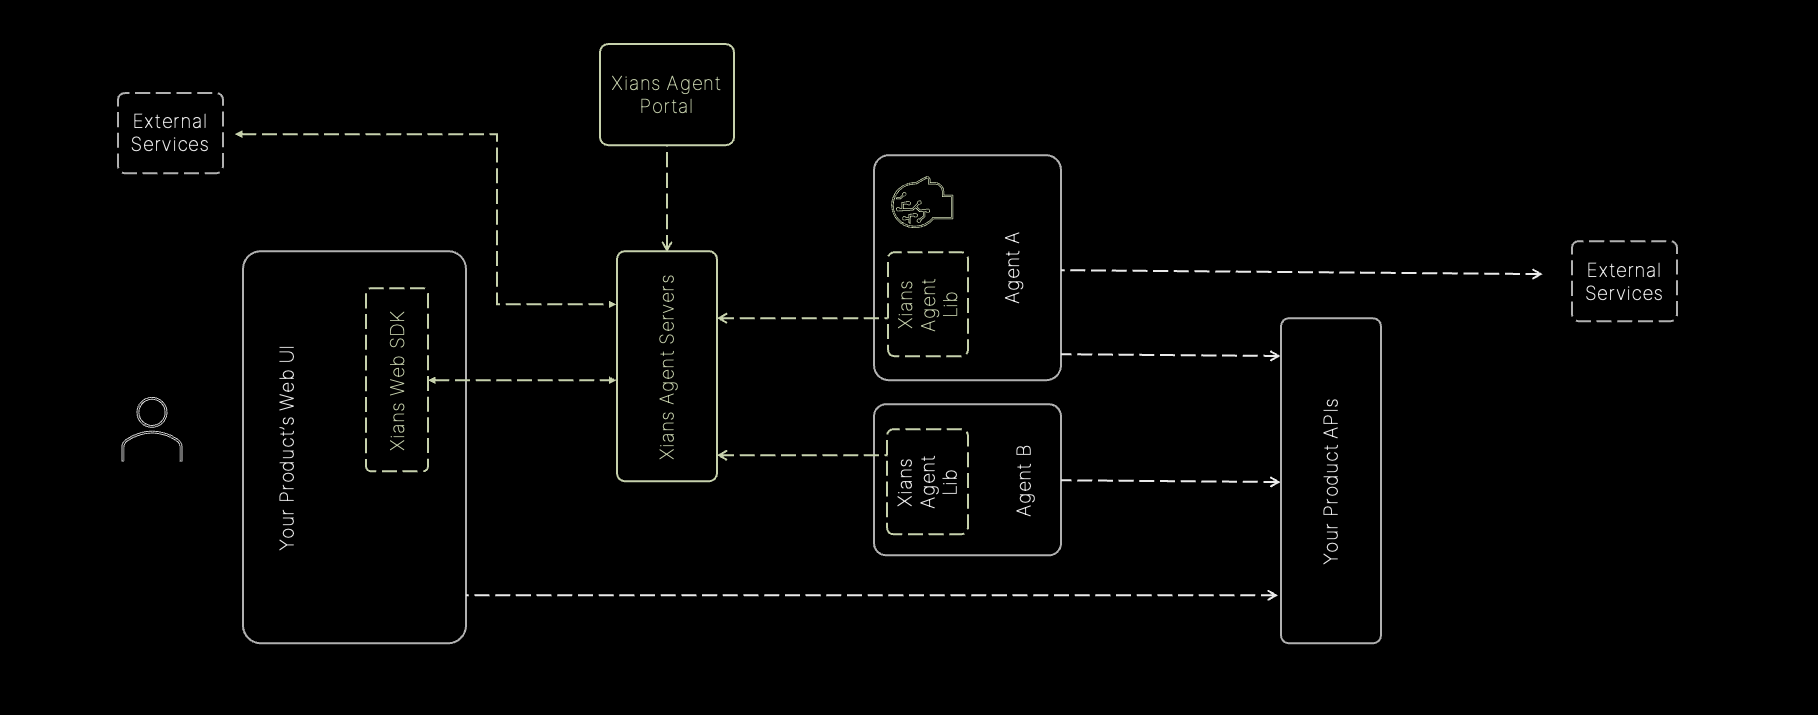
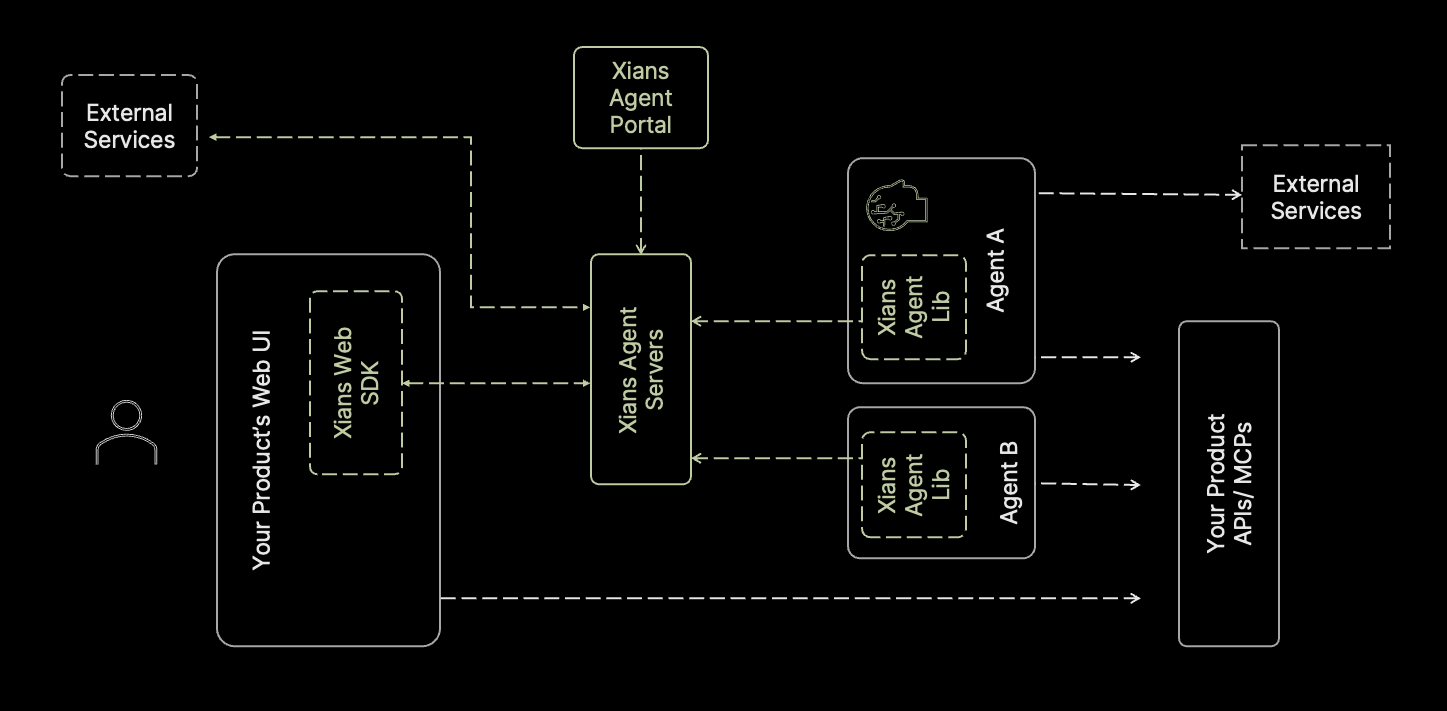
Refactor getting started documentation and update mkdocs.yml
This commit updates the navigation structure in mkdocs.yml to replace the "Setting Up" section with "Platform Setup" and "Agent Project Setup," reflecting the new organization of the getting started guides. The index.md file is modified to align with these changes, enhancing clarity for new users. Additionally, the outdated "setting-up" guide has been removed to streamline the documentation.

diff --git a/docs/0-architecture/3-xians-core-features.md b/docs/0-architecture/3-xians-core-features.md
@@ -1,8 +1,6 @@
-# What is an Agent Development Kit (ADK)?
+# Xians Platform Features
 
-An Agent Development Kit (ADK) is a powerful, flexible framework for creating, deploying, and orchestrating AI agents. Our platform-agnostic approach lets you build sophisticated agent systems while remaining model-independent and infrastructure-flexible. Xians ADK bridges the gap between traditional software development and AI agent creation, enabling developers to construct everything from simple task-oriented agents to complex multi-agent systems with enterprise-grade reliability.
-
-Xians ADK is a platform-agnostic framework for building AI agents. It provides a set of tools and libraries for building agents, as well as a management platform for deploying and monitoring agents.
+Xians Platform is an open-source & LLM-agnostic framework for building AI agents. It provides a set of tools and libraries for building agents, as well as a management platform for deploying and monitoring agents.
 
 ## Core Features
 
@@ -10,54 +8,32 @@ Xians ADK is a platform-agnostic framework for building AI agents. It provides a
 
 Xians ADK leverages temporal.io workflow engine to execute agent activities, making your applications fault-tolerant, scalable, and capable of managing long-running processes that can operate for months or years. Combine generative orchestration with deterministic workflows to create applications that are both adaptive and produce consistent, reliable results.
 
-### **Intuitive Agent Architecture**
+### **Sophisticated Agent Architecture**
 
-Design agents using familiar software development patterns. Our structured approach makes agent creation more predictable and maintainable while supporting both assistive and autonomous execution modes to suit your business requirements.
+Design agents using familiar software development patterns. Support true multi-agent systems with peer-to-peer agent handoffs as well as hierarchical agent team collaboration where agents are aware of each other's capabilities. This structured approach makes agent creation more predictable and maintainable while supporting both assistive and autonomous execution modes to suit your business requirements.
 
-### **Composable Multi-Agent Systems**
-
-Build sophisticated systems by combining specialized agents in collaborative structures (not just hierarchical). Coordinate complex tasks through explicit workflows or emergent agent cooperation. Xians enables peer-to-peer agent handoffs and team-based collaboration where agents are aware of each other's capabilities.
+Coordinate complex tasks through explicit workflows or emergent agent cooperation. Xians enables peer-to-peer agent handoffs and team-based collaboration where agents are aware of each other's capabilities.
 
 ### **Event-Driven Agent Communication**
 
-Agents communicate seamlessly among themselves and within internal subprocesses through sophisticated event mechanisms, enabling complex coordination without tight coupling.
+User-2-Agent and Agent-2-Agent communication is seamless through sophisticated communication mechanisms (WebSockets, REST, SSE), enabling complex coordination without tight coupling.
 
-### **Comprehensive Tooling Framework**
+### **Agent Resource Management**
 
-Extend agent capabilities with our extensive tool ecosystem. Integrate with pre-built utilities, create custom tools, leverage third-party libraries, or use other agents as tools to create powerful composable solutions.
+Xians ADK includes a full-featured Agent Management Portal and built-in Agent run UI, providing total visibility into agent definitions, processes, activities, logs, and a knowledge management portal for agent use. This comprehensive platform approach eliminates the need to build custom interfaces for agent management. Monitor and debug your agents with comprehensive tracing, logging, and evaluation capabilities.
 
-### **Complete Management Platform**
-
-Xians ADK includes a full-featured Agent Management Portal and built-in Agent run UI, providing total visibility into agent definitions, processes, activities, logs, and a knowledge management portal for agent use. This comprehensive platform approach eliminates the need to build custom interfaces for agent management.
-
-### **Multi-Tenant Architecture**
+### **Multi-Tenant Support**
 
 Built from the ground up for multi-tenancy, Xians ADK is the most suitable platform for sophisticated product development and enterprise deployments where isolation and customization per tenant are critical requirements.
 
-### **Simplified Deployment**
+### **Flexible Deployment**
 
 Deploy your agents anywhere with our flexible deployment options. Run locally during development, scale in cloud environments, or integrate into existing infrastructure with container support and standardized interfaces. Xians ADK ensures no vendor lock-in, whether to a specific LLM model, provider, or cloud platform.
-
-### **Built-in Observability**
-
-Monitor and debug your agents with comprehensive tracing, logging, and evaluation capabilities.
 
 ### **Enterprise-Ready Security**
 
 Build agents that meet organizational requirements with our security-first design. Implement fine-grained permissions, input validation, and output filtering to create trustworthy AI systems.
 
-## Code Samples
-
-- [All Samples](https://github.com/XiansAiPlatform/XiansAi.PublicDocs/tree/main/samples)
-
-## GitHub
-
-- Visit our [GitHub repository](https://github.com/XiansAiPlatform)
-
-## Latest Updates
-
-Stay tuned for the latest updates and features. Follow our [changelog](https://github.com/XiansAiPlatform/XiansAi.Lib/releases) for detailed release information.
-
 ## Next Steps
 
-- [Setting up](../1-getting-started/1-setting-up.md)
+- [Setting up](../1-getting-started/0-platform-setup.md)

diff --git a/docs/0-architecture/1-why-xians-platform.md b/docs/0-architecture/1-why-xians-platform.md
@@ -16,6 +16,14 @@ There are 3 areas of main differences:
 | Users responsible for each step of the process | AI involves users strategically rather than for every step |
 | | Goal-oriented automation with human oversight |
 
+### Autonomous Process Execution in Xians
+
+The platform provides several technical capabilities that enable AI agents to drive processes autonomously:
+
+- **Enterprise-Grade Workflow Engine**: Built on [temporal.io](https://temporal.io), providing fault-tolerant, long-running process execution that can operate for months or years
+- **Multi-Agent Systems**: Peer-to-peer agent collaboration where agents coordinate complex tasks through explicit workflows or emergent cooperation. Agents communicate through sophisticated event mechanisms enabling complex coordination without tight coupling
+- **Flow Types**: Support for both deterministic business processes and non-deterministic conversational flows, enabling different levels of autonomy based on requirements
+
 ## 2. System Evolution
 
 ![System Evolution](../images/system-evolution.png)
@@ -28,6 +36,14 @@ There are 3 areas of main differences:
 | Predetermined decision paths and responses | Adaptive intelligence that evolves through experience |
 | | State and reward-based optimization |
 | | Self-improving capabilities over time |
+
+### Adaptive Intelligence in Xians
+
+Technical features that support continuous learning and adaptation:
+
+- **Knowledge Management System**: Dynamic knowledge bases that can be updated without code changes, allowing agents to evolve their behavior through the portal interface as well as through the API.
+- **Agent Memory Types**: CAG Knowledge Prompts (Cache Augmented Generation), RAG (Retrieval Augmented Generation), and Cache-Memory are built in for Agents to use.
+- **Capabilities Framework**: Extensible tool ecosystem where agents can acquire new abilities through MCPs, custom capabilities, third-party libraries, or other agents as tools
 
 ## 3. User Interaction
 
@@ -45,39 +61,13 @@ There are 3 areas of main differences:
 
 To support these capabilities a new type of architecture is needed. This is where agentic platform architecture comes into play.
 
-## Platform Capabilities That Enable Agentic Software
-
-### Autonomous Process Execution
-
-The platform provides several technical capabilities that enable AI agents to drive processes autonomously:
-
-- **Enterprise-Grade Workflow Engine**: Built on [temporal.io](https://temporal.io), providing fault-tolerant, long-running process execution that can operate for months or years
-- **Multi-Agent Systems**: Peer-to-peer agent collaboration where agents coordinate complex tasks through explicit workflows or emergent cooperation
-- **Event-Driven Communication**: Agents communicate through sophisticated event mechanisms (`SendFlowMessage`, `SubscribeFlowMessageHandler`) enabling complex coordination without tight coupling
-
-### Adaptive Intelligence
-
-Technical features that support continuous learning and adaptation:
-
-- **Knowledge Management System**: Dynamic knowledge bases that can be updated without code changes, allowing agents to evolve their behavior through the portal interface
-- **Capabilities Framework**: Extensible tool ecosystem where agents can acquire new abilities through custom capabilities, third-party libraries, or other agents as tools
-- **Flow Types**: Support for both deterministic business processes and non-deterministic conversational flows, enabling different levels of autonomy based on requirements
-
-### Natural User Interaction
+### Natural User Interaction in Xians
 
 Platform features that enable human-centric communication:
 
-- **Multi-Modal Communication**: Native integration with WebSocket, REST APIs, and webhooks for reaching users through their preferred channels
-- **Agent Handoffs**: Seamless transfer of conversations between specialized agents (`SendHandoff`) when different expertise is required
-- **Message Threading**: Structured conversation management with support for both text (`SendChat`) and structured data (`SendData`) communication
-
-### Technical Implementation Details
-
-The platform architecture supports these capabilities through:
-
-- **Multi-Tenant Ready**: Built-in isolation and customization per tenant for enterprise deployments
-- **Platform Agnostic**: No vendor lock-in to specific LLMs, providers, or cloud platforms
-- **Built-in Observability**: Comprehensive tracing, logging, and evaluation for monitoring agent behavior
-- **Simplified Deployment**: Container support with standardized interfaces for flexible deployment options
+- **Multi-Channel Communication**: Native integration with WebSocket (Real time), REST APIs (Synchronous and Asynchronous), and webhooks (Listens to events and messages) for reaching users through their preferred channels
+- **Agent Handoffs**: Seamless transfer of conversations between specialized agents when different expertise is required
+- **Agent Hierarchies**: Support for agent hierarchies, where agents can be grouped into teams and sub-teams, and can be assigned to different levels of the hierarchy
+- **Sophisticated Message Passing**: Structured conversation management with support for both text (`Chat`) and structured data (`Data`) communication
 
 These technical capabilities work together to enable the fundamental shift from traditional software patterns to autonomous, adaptive, and naturally interactive agentic systems.

diff --git a/docs/index.md b/docs/index.md
@@ -14,15 +14,10 @@ Understand the foundations and components of the Xians.ai platform:
 
 New to Xians.ai? Start here to get up and running quickly:
 
-- **[Setting Up](1-getting-started/1-setting-up.md)** - Install and configure your development environment
-- **[First Agent](1-getting-started/2-first-agent.md)** - Create your first conversational agent
+- **[Platform Setup](1-getting-started/0-platform-setup.md)** - Install and configure your development environment
+- **[Agent Project Setup](1-getting-started/1-agent-project-setting-up.md)** - Create your first conversational agent
+- **[Non-Deterministic Flows](1-getting-started/2-first-agent.md)** - Create your first conversational agent
 - **[Adding Capabilities](1-getting-started/3-adding-capabilities.md)** - Extend your agent with custom capabilities
-
-## 📚 Main Sections
-
-### 🤖 Agent Development
-
-- **[Non-Deterministic Flows](1-getting-started/2-first-agent.md)** - Build conversational and adaptive agents
 - **[Deterministic Flows](1-getting-started/4-new-business-process.md)** - Create structured business process flows
 - **[Adding Activities](1-getting-started/5-adding-activities.md)** - Extend your workflows with custom activities
 
@@ -69,7 +64,7 @@ Advanced topics and detailed guides:
 
 ## 🎯 Next Steps
 
-1. **[Set up your development environment](1-getting-started/1-setting-up.md)**
-2. **[Create your first agent](1-getting-started/2-first-agent.md)**
+1. **[Set up your development environment](1-getting-started/0-platform-setup.md)**
+2. **[Create your first agent](1-getting-started/1-agent-project-setting-up.md)**
 3. **[Explore the samples](https://github.com/XiansAiPlatform/XiansAi.PublicDocs/tree/main/samples)**
 

diff --git a/docs/1-getting-started/0-platform-setup.md b/docs/1-getting-started/0-platform-setup.md
@@ -1,0 +1,35 @@
+# Platform Setup
+
+To develop agentic software with the Xians platform, you'll need to set up the platform locally on your development machine. This local setup provides all the necessary infrastructure components required for agent development and testing.
+
+## Quick Setup with Docker Compose
+
+The fastest and most reliable way to get started is using the Docker Compose setup from the Xians community edition. This setup includes all the essential components:
+
+- **Xians Server** - Core platform API and orchestration
+- **Xians UI** - Web-based management interface
+- **Temporal** - Workflow orchestration engine
+- **Keycloak** - Authentication and authorization
+- **Database components** - Data persistence layer
+
+## Getting Started
+
+For complete setup instructions, system requirements, and configuration options, visit the official community edition repository:
+
+**[XiansAi Platform - Community Edition](https://github.com/XiansAiPlatform/community-edition?tab=readme-ov-file#xiansai-platform---community-edition)**
+
+The repository provides:
+
+- One-command setup scripts
+- Environment configuration options
+- Access URLs for all platform components
+- Troubleshooting guidance
+
+## Important Notes
+
+- The community edition is designed for **development and testing only**
+- Requires Docker and Docker Compose
+- Minimum 4GB RAM recommended
+- Ensure you have an OpenAI API key for LLM capabilities
+
+Once your platform is running locally, you can proceed to create your first agent and begin developing agentic workflows.

diff --git a/docs/n-encyclopedia/scaling-agents.md b/docs/n-encyclopedia/scaling-agents.md
@@ -33,4 +33,3 @@ The visualization server is responsible for visualizing the agents and the workf
 ## Database
 
 The database is responsible for storing the data of the agents and the workflows. It is a PostgreSQL database that is running in the cloud.
-
